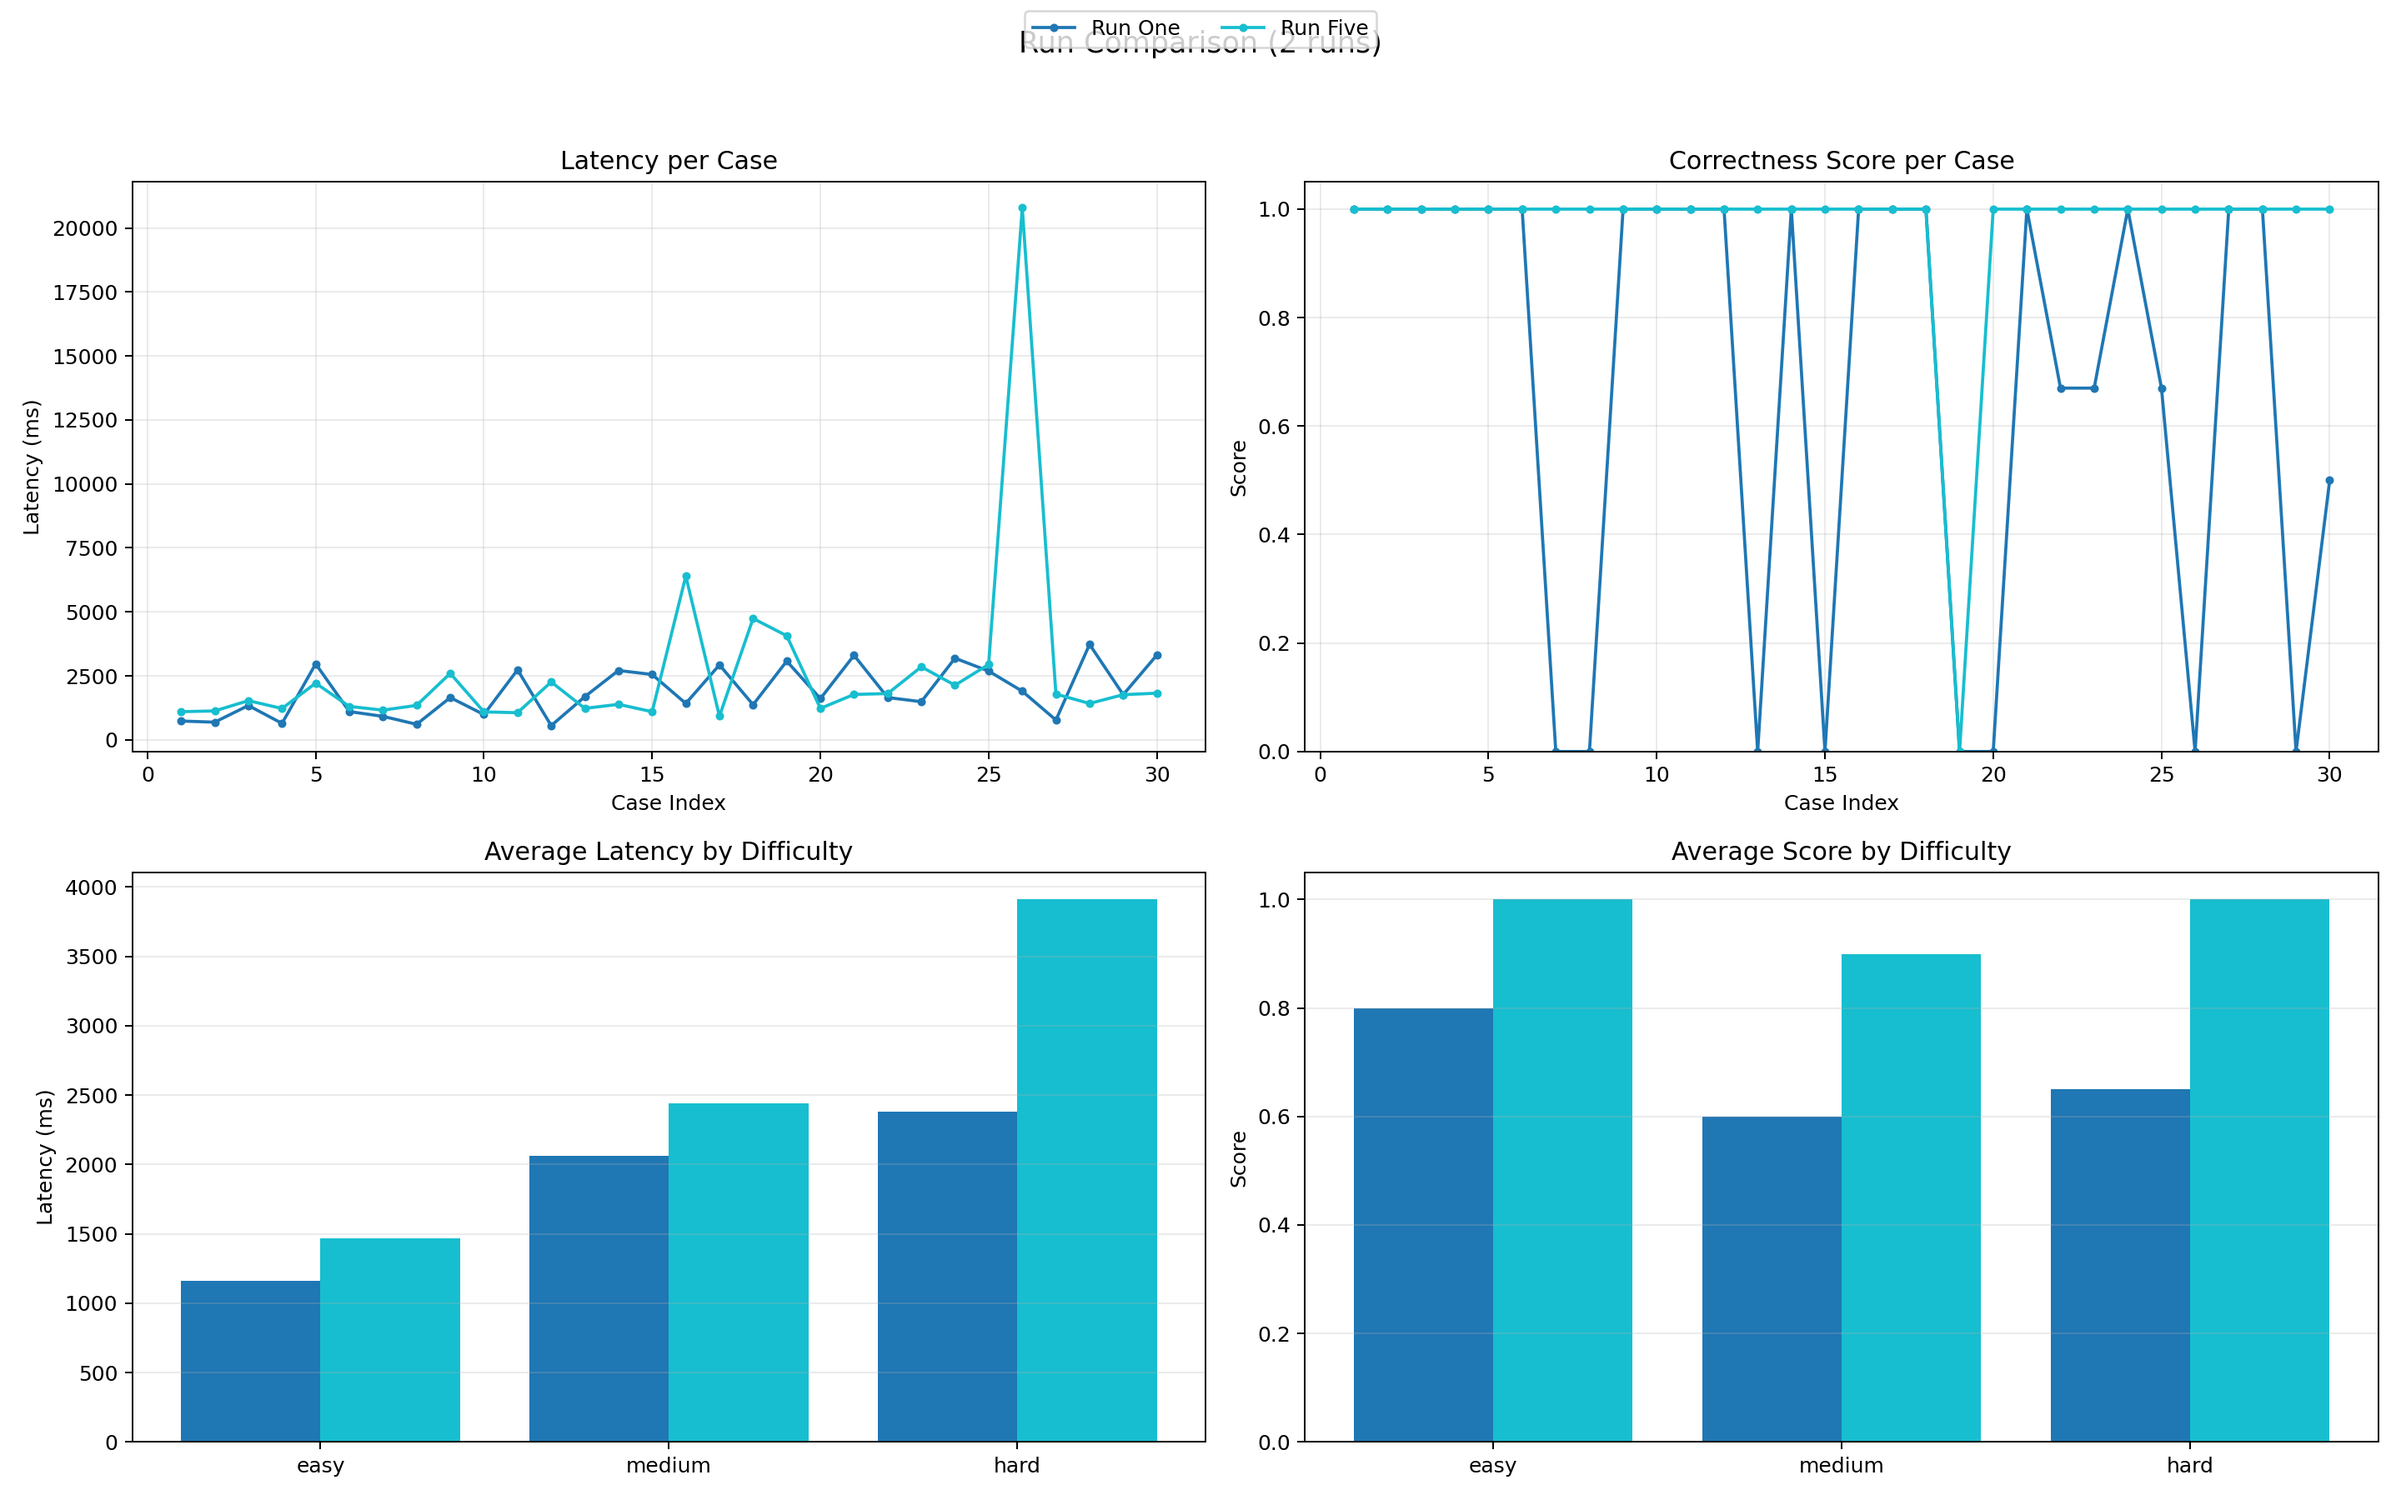
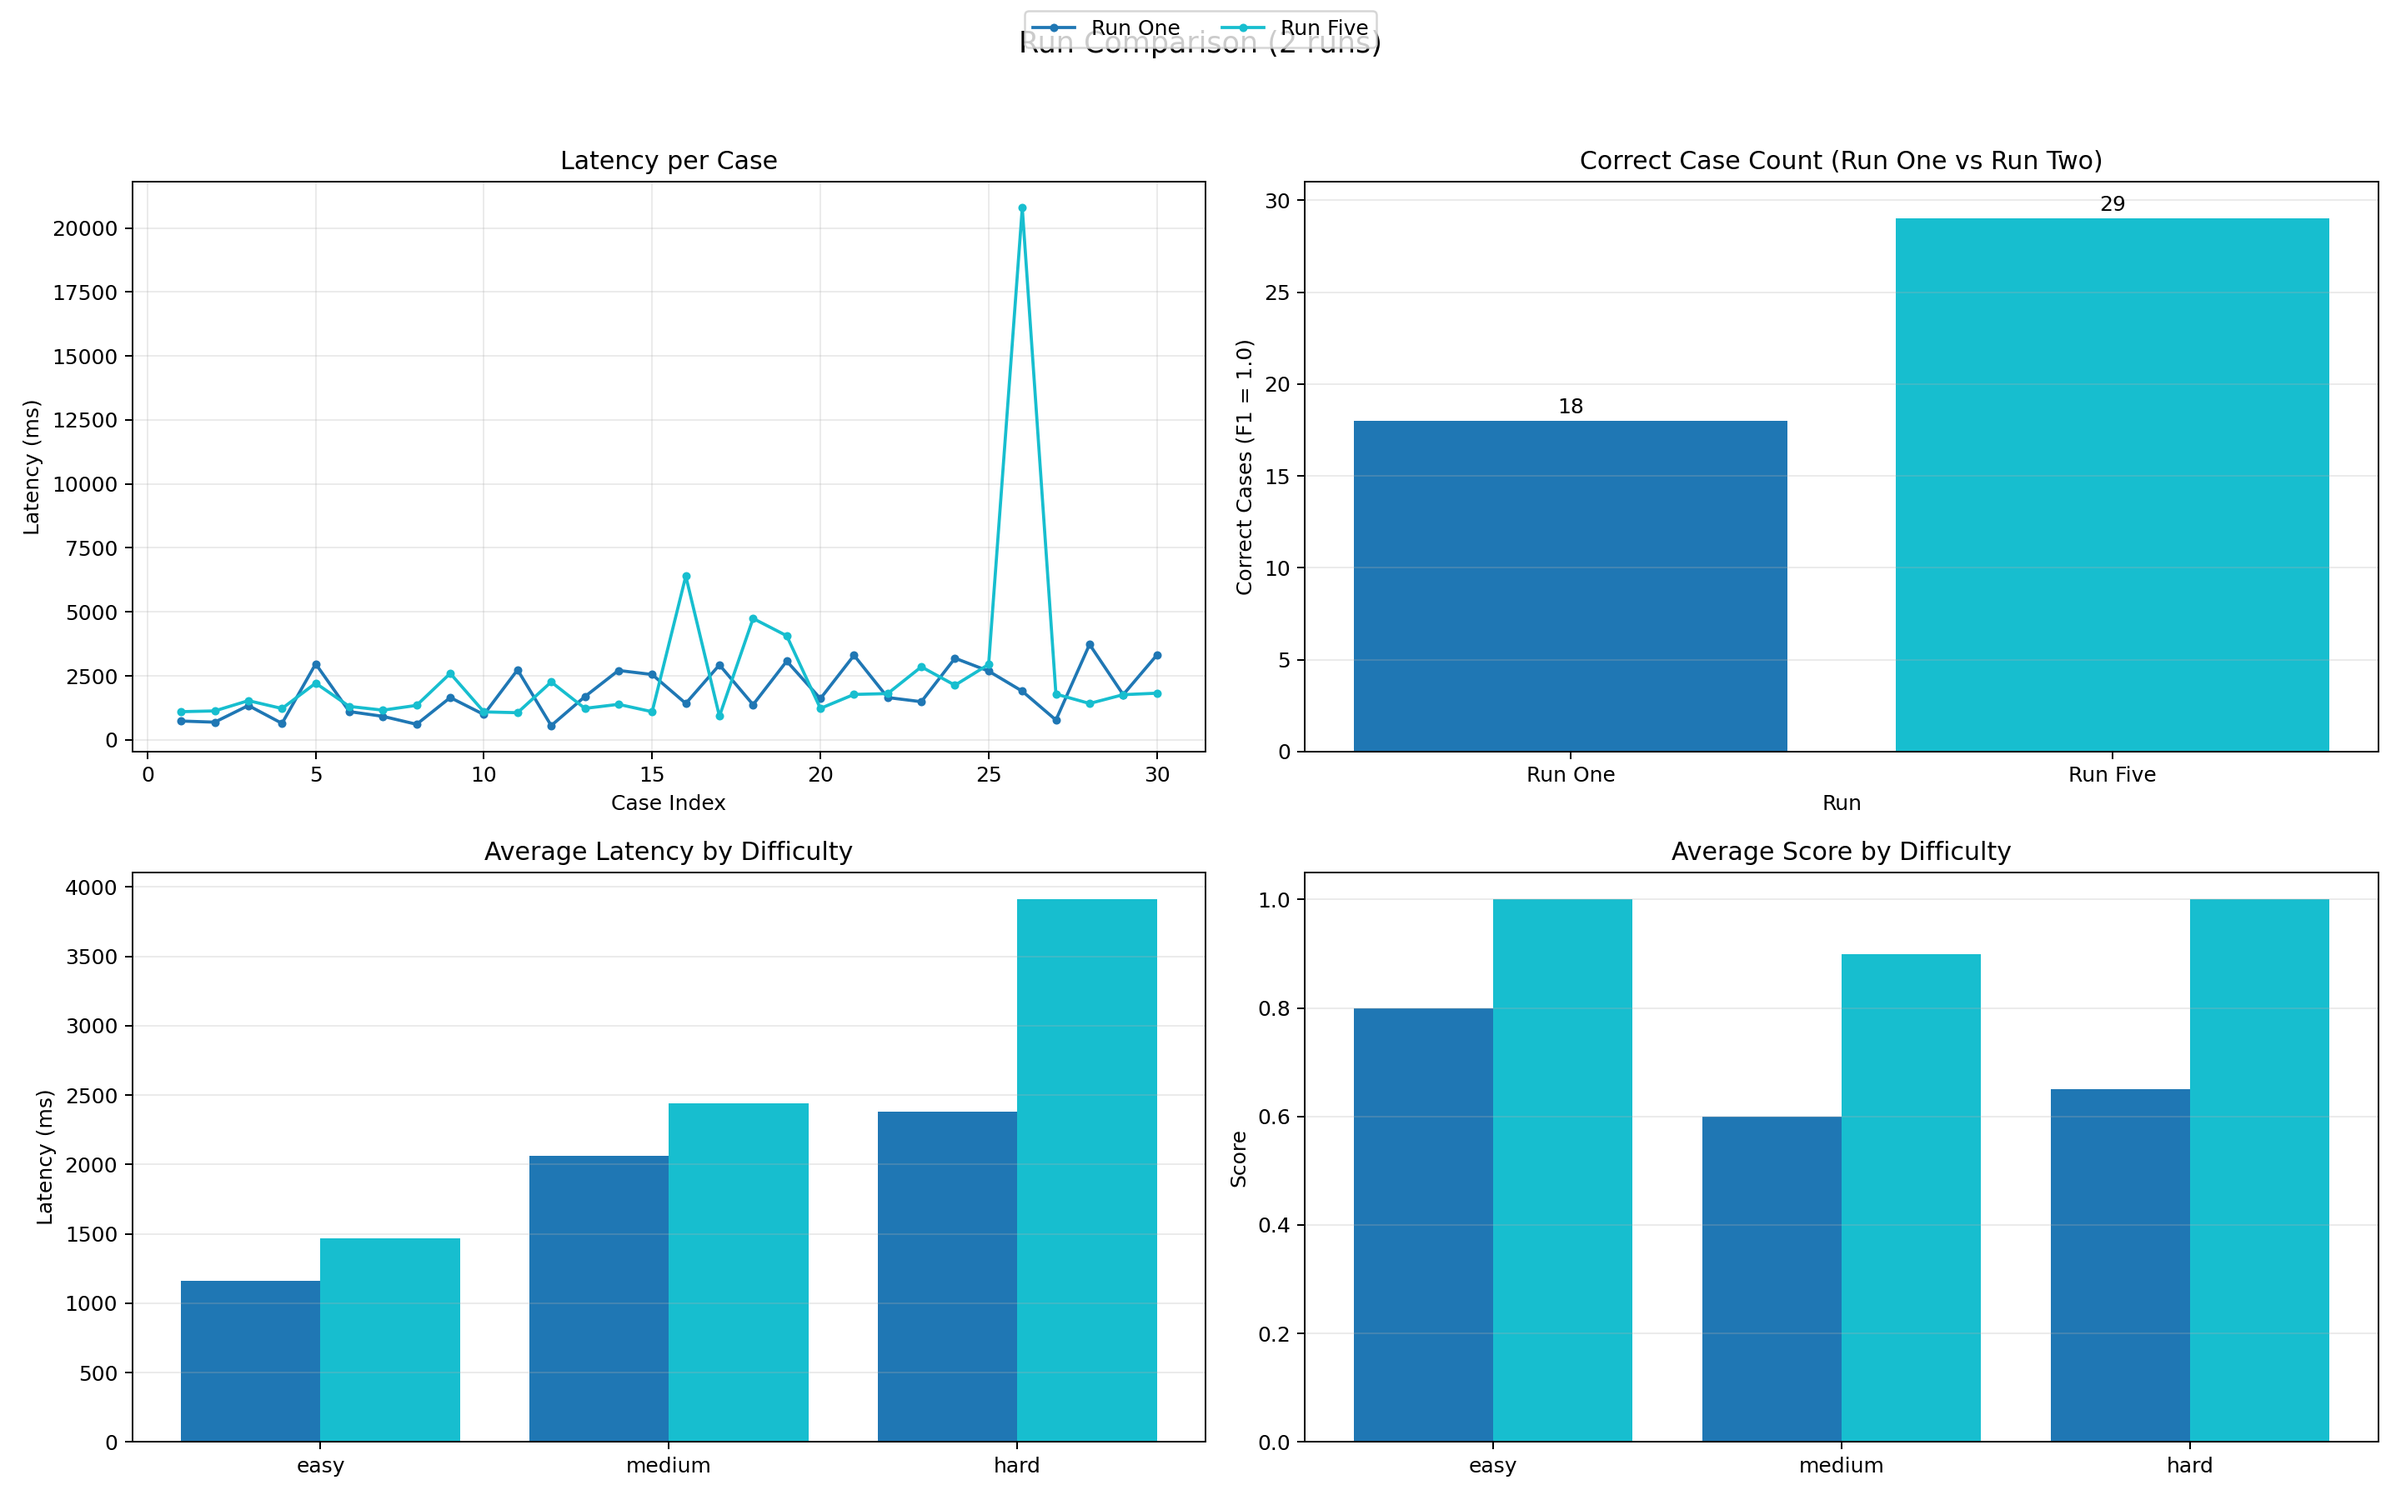
Add better graphing for correctness

diff --git a/graph.py b/graph.py
@@ -80,7 +80,6 @@ def plot_comparison(runs: dict[str, list[dict[str, object]]], output_path: Path,
         scores = [float(r["score"]) for r in rows]
 
         ax_latency.plot(x, latencies, marker="o", linewidth=1.5, markersize=3, label=run_name, color=colors[i])
-        ax_score.plot(x, scores, marker="o", linewidth=1.5, markersize=3, label=run_name, color=colors[i])
 
         avg_latency_by_diff = [
             average([float(r["latency_ms"]) for r in rows if r["difficulty"] == diff]) for diff in difficulties
@@ -91,16 +90,30 @@ def plot_comparison(runs: dict[str, list[dict[str, object]]], output_path: Path,
         ax_diff_latency.bar(x_positions + offset, avg_latency_by_diff, width=width, label=run_name, color=colors[i])
         ax_diff_score.bar(x_positions + offset, avg_score_by_diff, width=width, label=run_name, color=colors[i])
 
+    # Replace per-case correctness line chart with two bars:
+    # correct-case counts (F1 == 1.0) for the first two runs.
+    selected_runs = run_names[:2]
+    correct_counts = []
+    for run_name in selected_runs:
+        rows = runs[run_name]
+        count = sum(1 for r in rows if np.isclose(float(r["score"]), 1.0))
+        correct_counts.append(count)
+    bar_colors = [colors[i] for i in range(len(selected_runs))]
+    ax_score.bar(selected_runs, correct_counts, color=bar_colors)
+    for i, count in enumerate(correct_counts):
+        ax_score.text(i, count + 0.2, str(count), ha="center", va="bottom", fontsize=10)
+
     ax_latency.set_title("Latency per Case")
     ax_latency.set_xlabel("Case Index")
     ax_latency.set_ylabel("Latency (ms)")
     ax_latency.grid(alpha=0.25)
 
-    ax_score.set_title("Correctness Score per Case")
-    ax_score.set_xlabel("Case Index")
-    ax_score.set_ylabel("Score")
-    ax_score.set_ylim(0.0, 1.05)
-    ax_score.grid(alpha=0.25)
+    total_cases = max((len(rows) for rows in runs.values()), default=0)
+    ax_score.set_title("Correct Case Count (Run One vs Run Two)")
+    ax_score.set_xlabel("Run")
+    ax_score.set_ylabel("Correct Cases (F1 = 1.0)")
+    ax_score.set_ylim(0, total_cases + 1)
+    ax_score.grid(axis="y", alpha=0.25)
 
     ax_diff_latency.set_title("Average Latency by Difficulty")
     ax_diff_latency.set_xticks(x_positions, difficulties)
